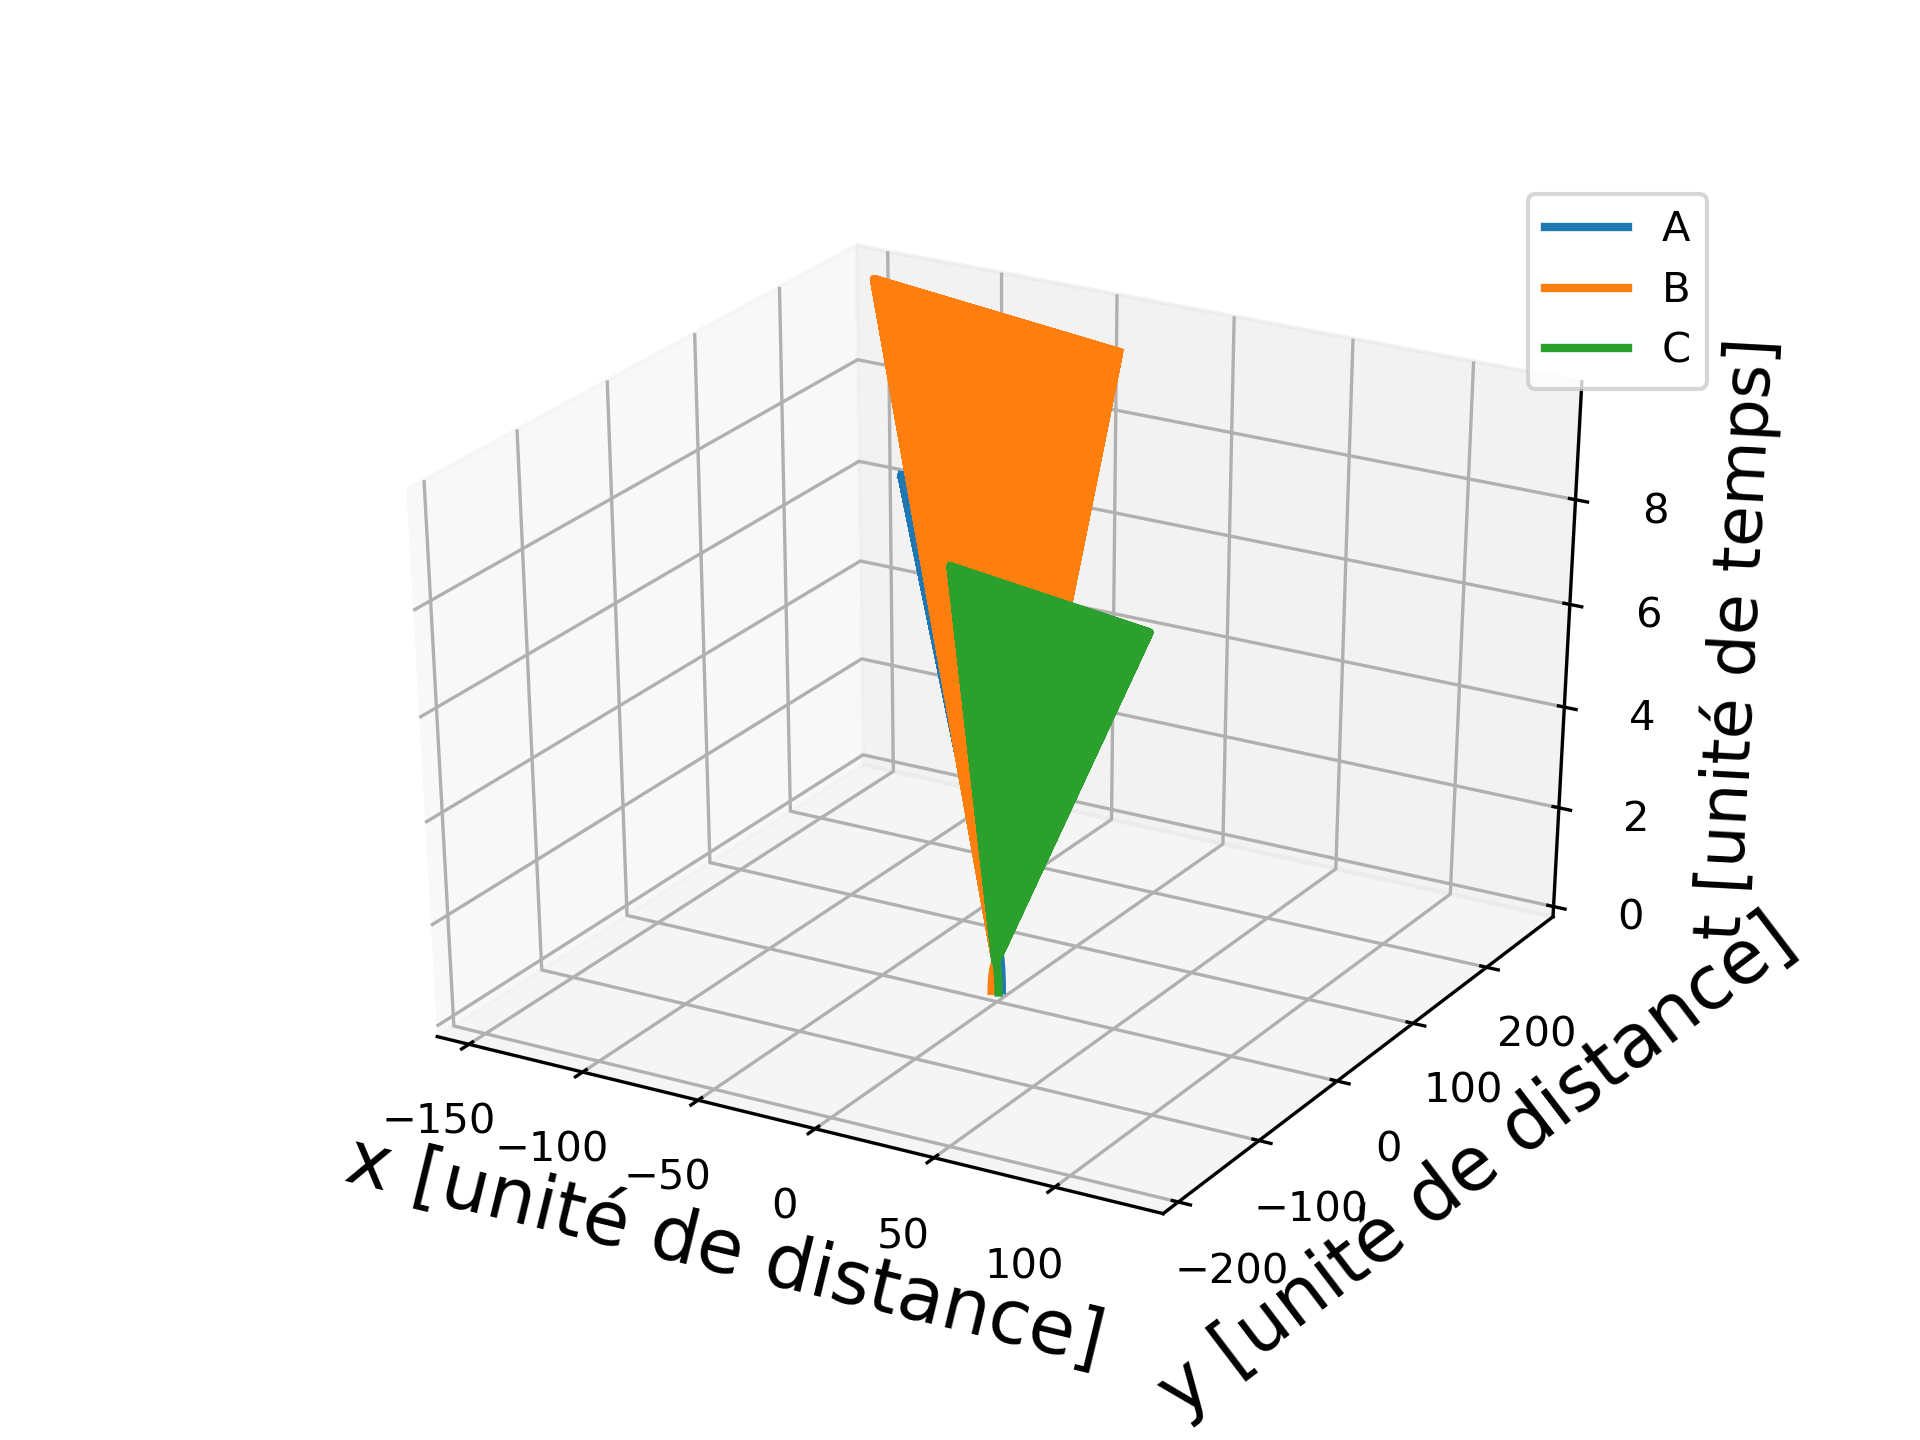
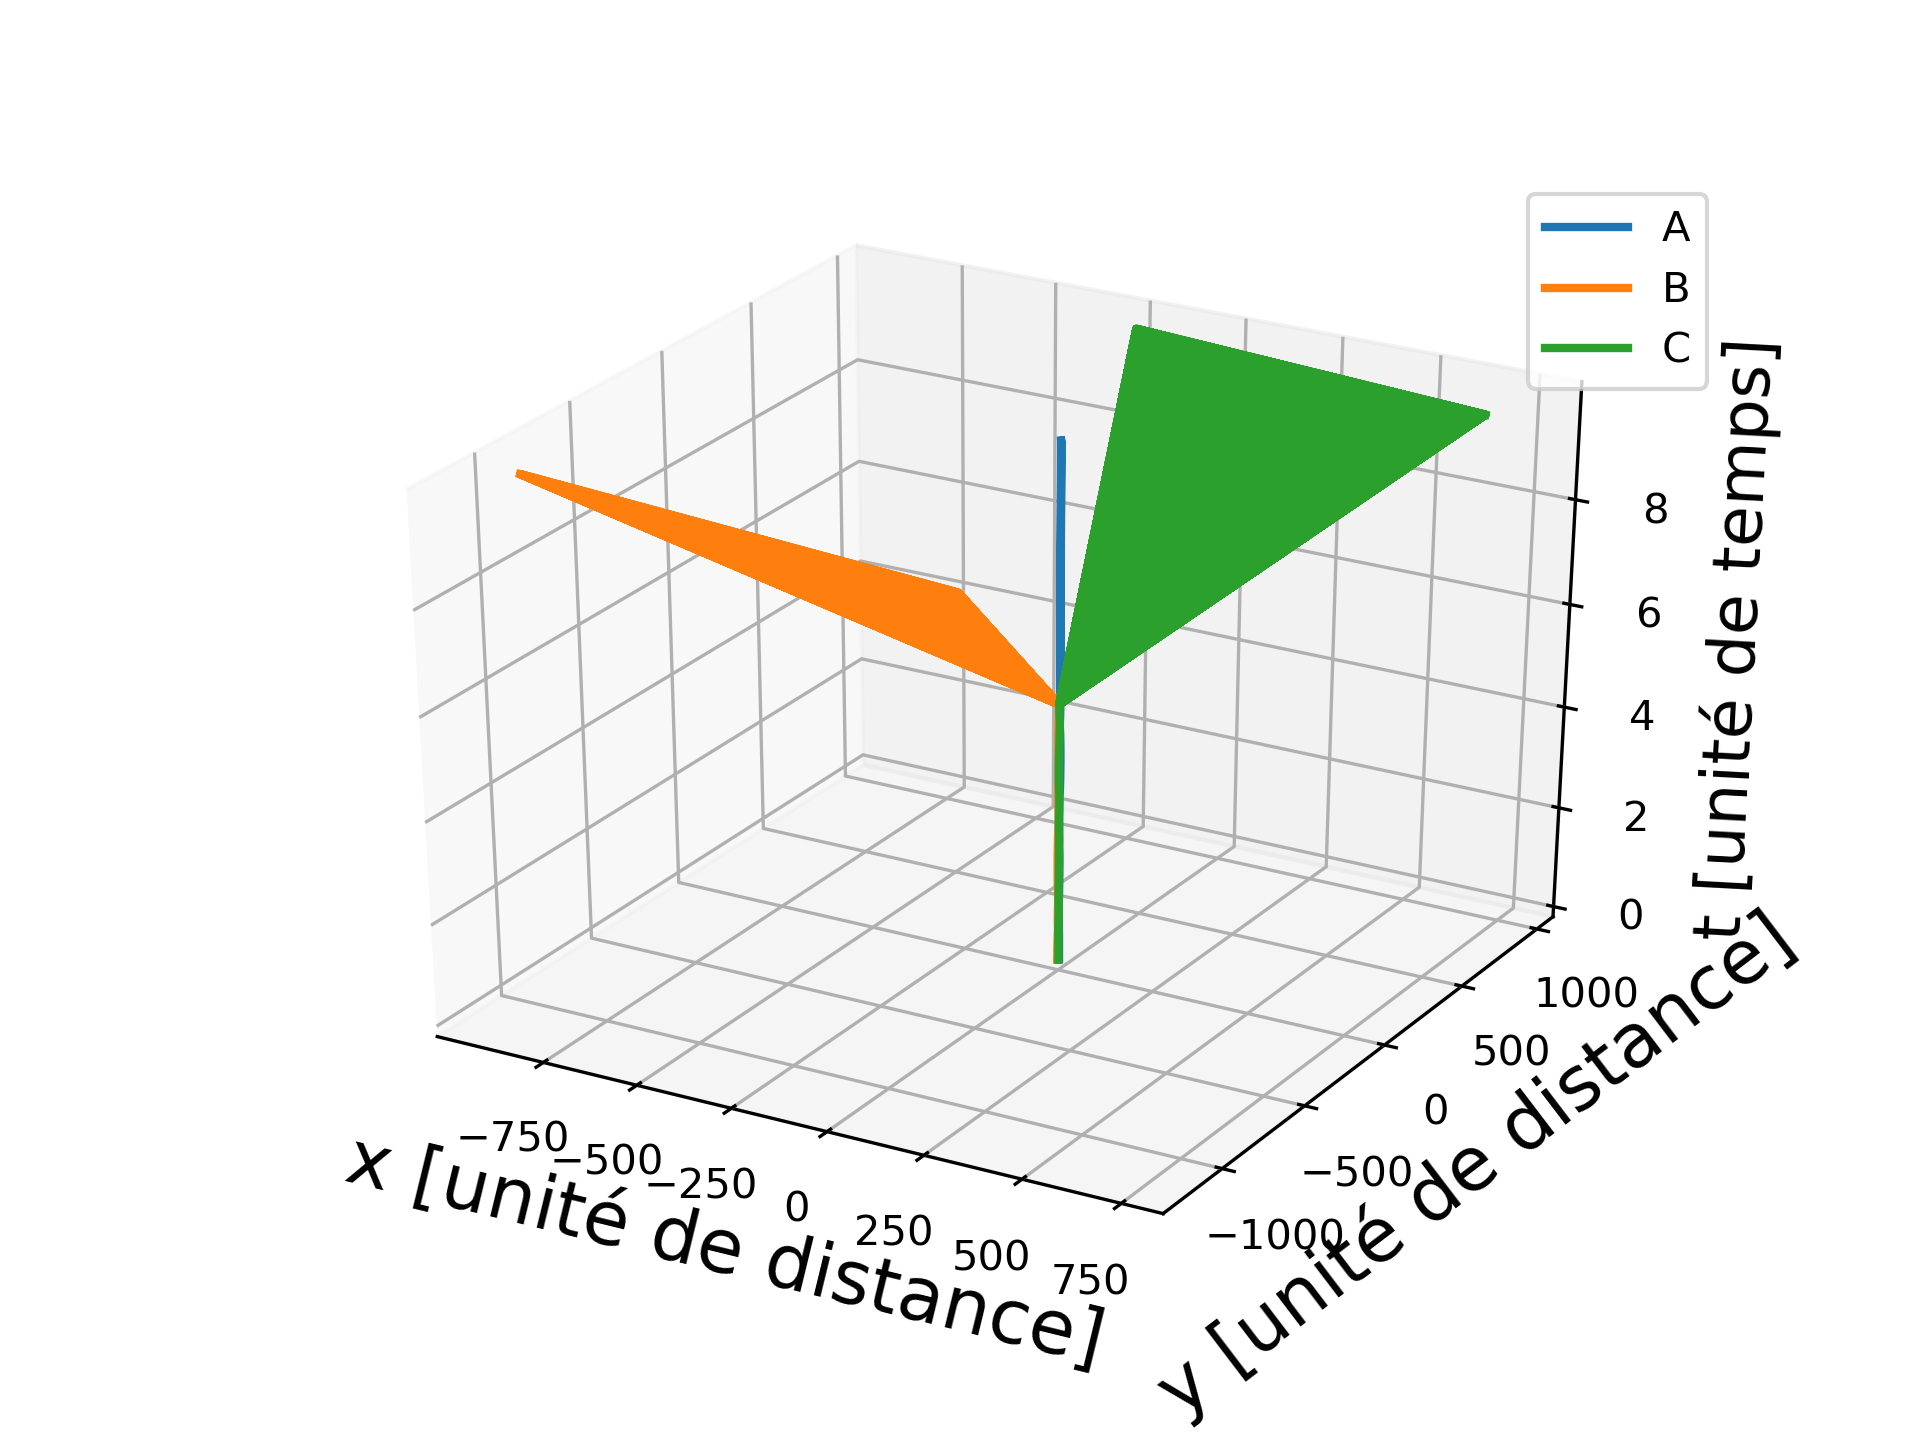
simulations

diff --git a/Mecanique_Celeste_main.py b/Mecanique_Celeste_main.py
@@ -4,10 +4,10 @@ from mpl_toolkits.mplot3d import Axes3D
 from matplotlib.animation import FuncAnimation
 
 
-donnee_problemes: dict = {
-    """
+"""
     Données du problème 2 sous forme de dictionnaire.
-    """
+"""
+donnee_problemes: dict = {
     "a": {
         "labels": ["A", "B", "C"],
         "t": [0, 1],
@@ -309,21 +309,23 @@ def simulation_animation_2D(matrice_de_position: np.ndarray, vecteur_temps: np.n
 
 if __name__ == '__main__':
 
-    for probleme, donnees in donnee_problemes.items():
-        R, T = resolution_probleme_trois_corps(donnees["m_i"],
-                                               positions_initiales=donnees["r_0"],
-                                               vitesses_initiales=donnees["v_0"],
-                                               bornes=donnees["t"], resolution=100_000)
-        simulation_affichage_3D(R, T, titre=f"simulation_affichage_3D_{probleme}", labels=donnees["labels"])
-        simulation_animation_2D(R, T, titre=f"simulationAnimation2D-{probleme}", labels=donnees["labels"],
-                                min_frames=1_000, echelle_temps=donnees["t"])
+    # for probleme, donnees in donnee_problemes.items():
+    #     R, T = resolution_probleme_trois_corps(donnees["m_i"],
+    #                                            positions_initiales=donnees["r_0"],
+    #                                            vitesses_initiales=donnees["v_0"],
+    #                                            bornes=donnees["t"], resolution=100_000)
+    #     simulation_affichage_3D(R, T, titre=f"simulation_affichage_3D_{probleme}", labels=donnees["labels"])
+    #     simulation_animation_2D(R, T, titre=f"simulationAnimation2D-{probleme}", labels=donnees["labels"],
+    #                             min_frames=1_000, echelle_temps=donnees["t"])
 
-    # probleme = "a"
-    # donnees = donnee_problemes[probleme]
-    # R, T = resolution_probleme_trois_corps(donnees["m_i"],
-    #                                        positions_initiales=donnees["r_0"],
-    #                                        vitesses_initiales=donnees["v_0"],
-    #                                        bornes=donnees["t"], resolution=100_000)
-    # simulation_affichage_3D(R, T, titre=f"simulation_affichage_3D_{probleme}", labels=donnees["labels"])
-    # simulation_animation_2D(R, T, titre=f"simulation_animation_2D_{probleme}", labels=donnees["labels"],
-    #                         min_frames=1_000, echelle_temps=donnees["t"])
+    probleme = "c5"
+    donnees = donnee_problemes[probleme]
+    R, T = resolution_probleme_trois_corps(donnees["m_i"],
+                                           positions_initiales=donnees["r_0"],
+                                           vitesses_initiales=donnees["v_0"],
+                                           bornes=donnees["t"], resolution=5_000_000)
+    simulation_affichage_3D(R, T, titre=f"simulation_affichage_3D_{probleme}", labels=donnees["labels"])
+    simulation_animation_2D(R, T, titre=f"simulationAnimation2D-{probleme}-1000f", labels=donnees["labels"],
+                            min_frames=1_000, echelle_temps=donnees["t"])
+    simulation_animation_2D(R, T, titre=f"simulationAnimation2D-{probleme}-200f", labels=donnees["labels"],
+                            min_frames=200, echelle_temps=donnees["t"])
